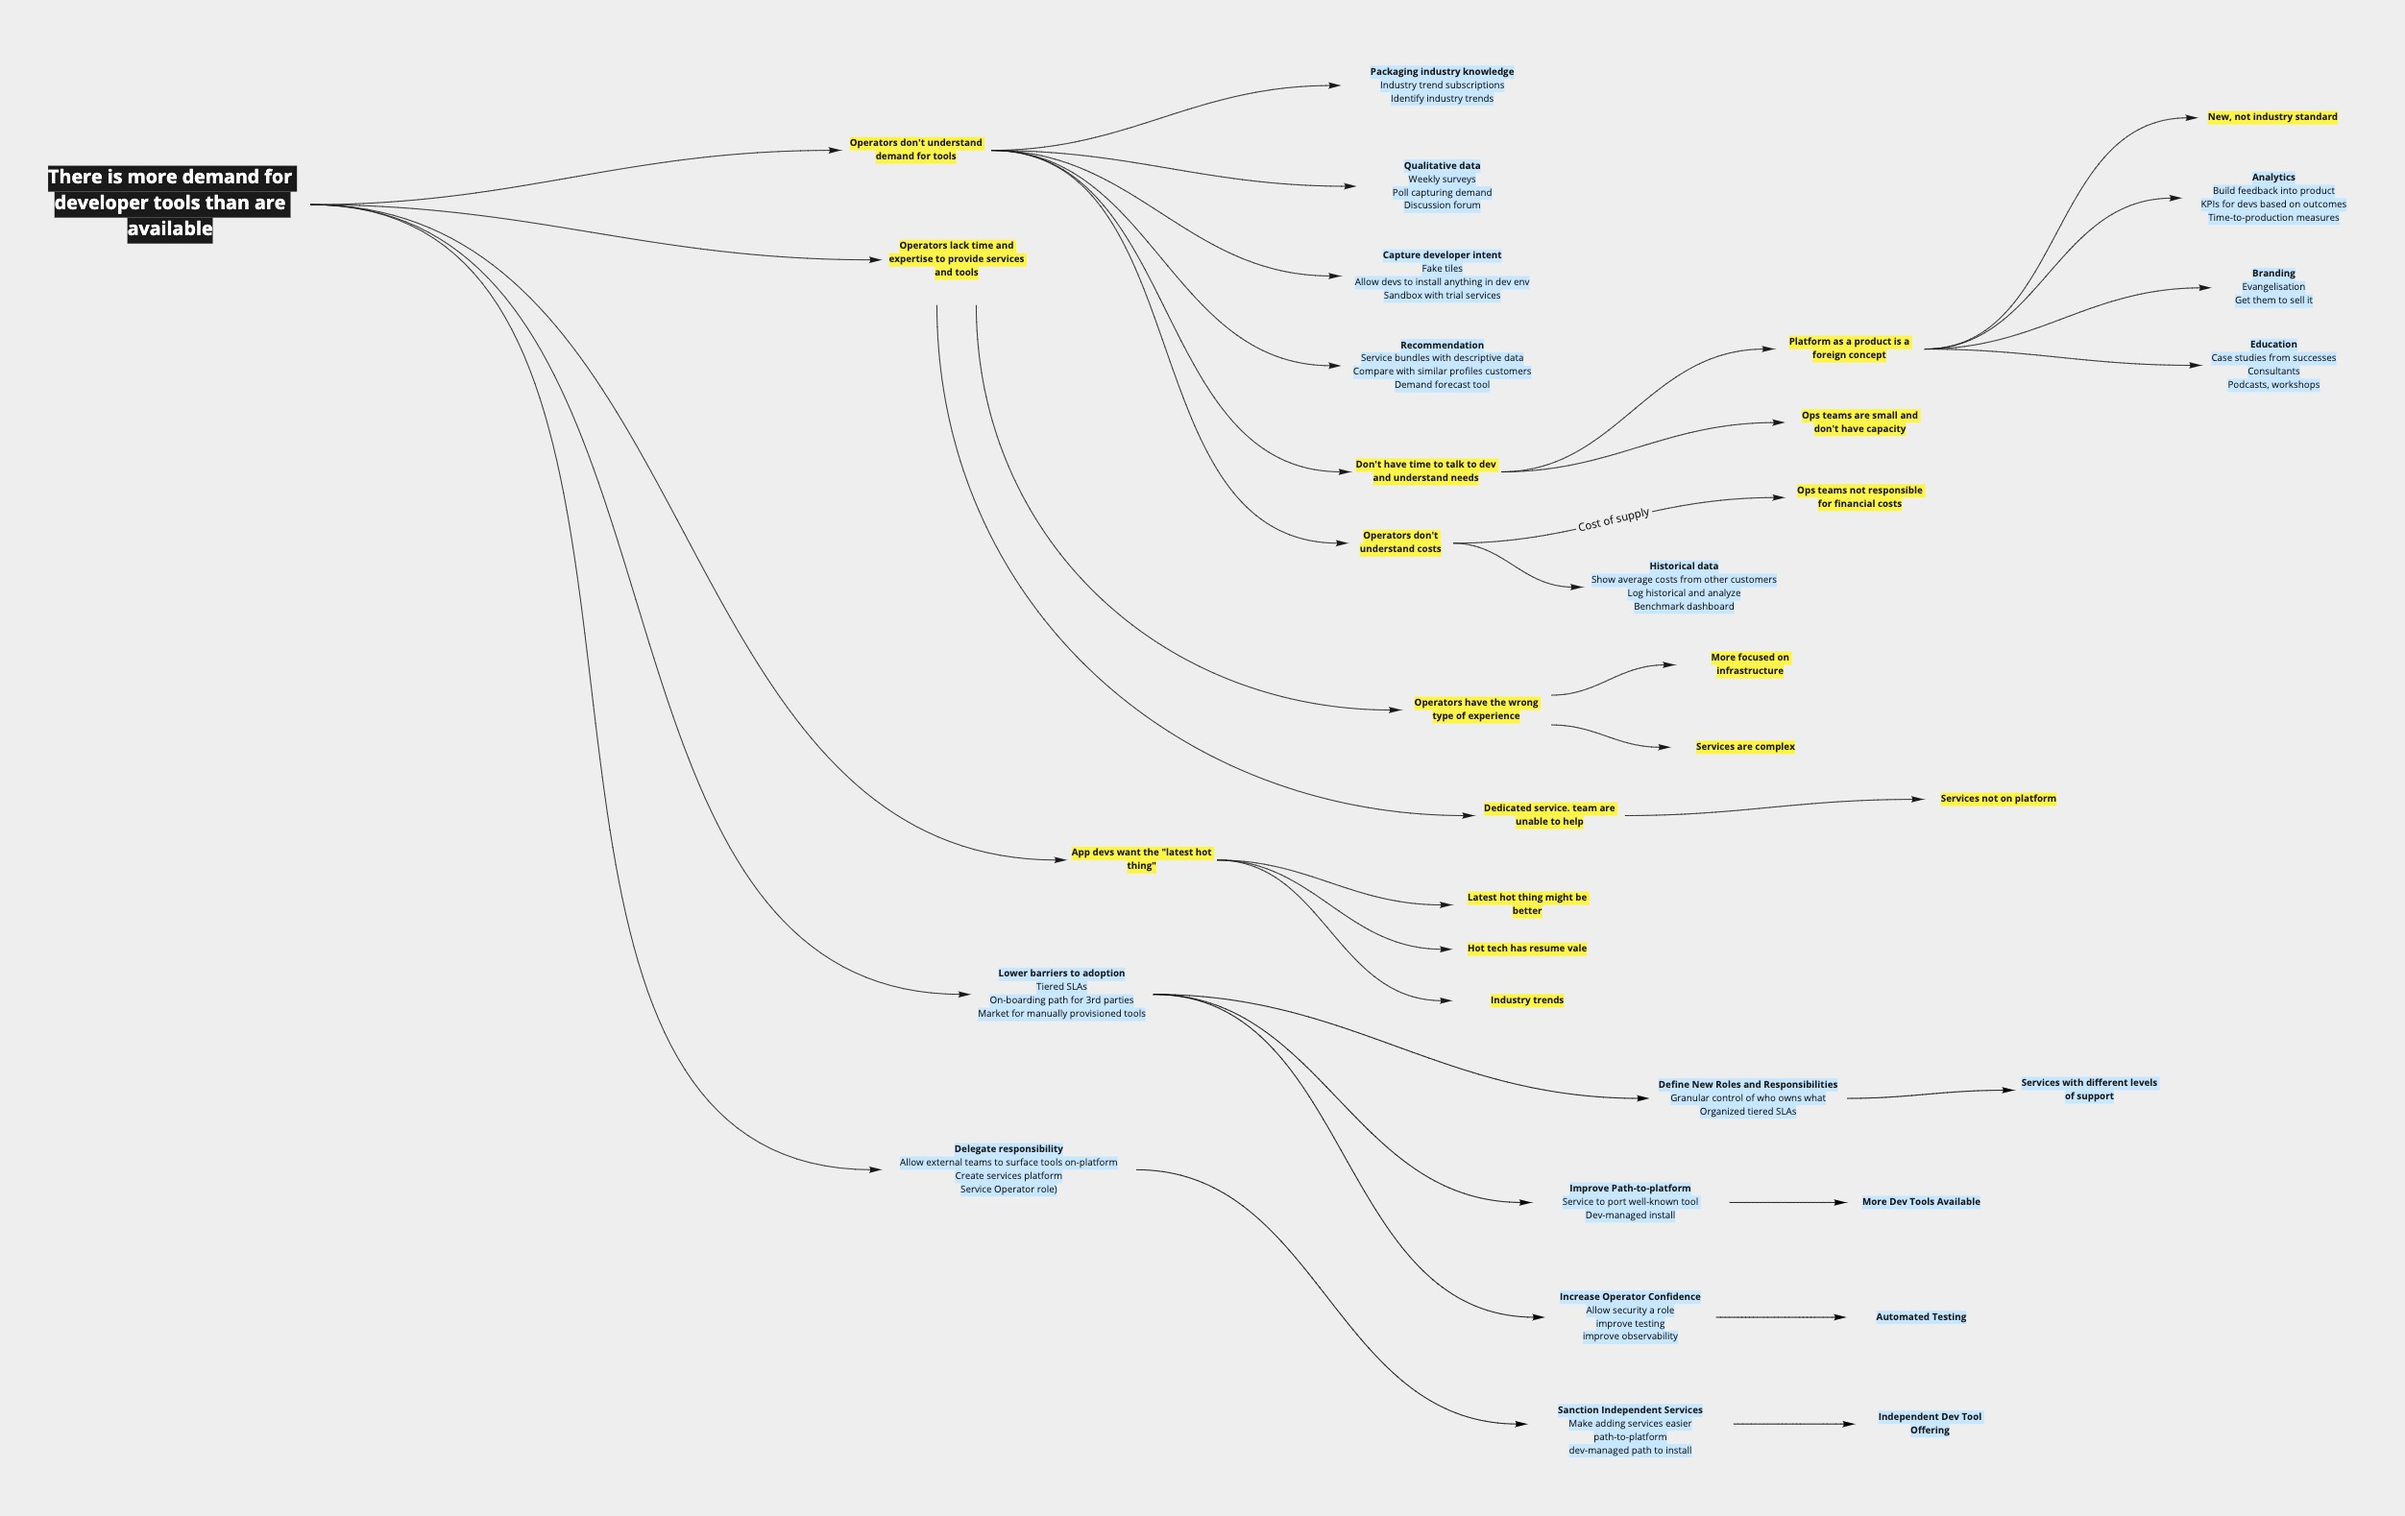
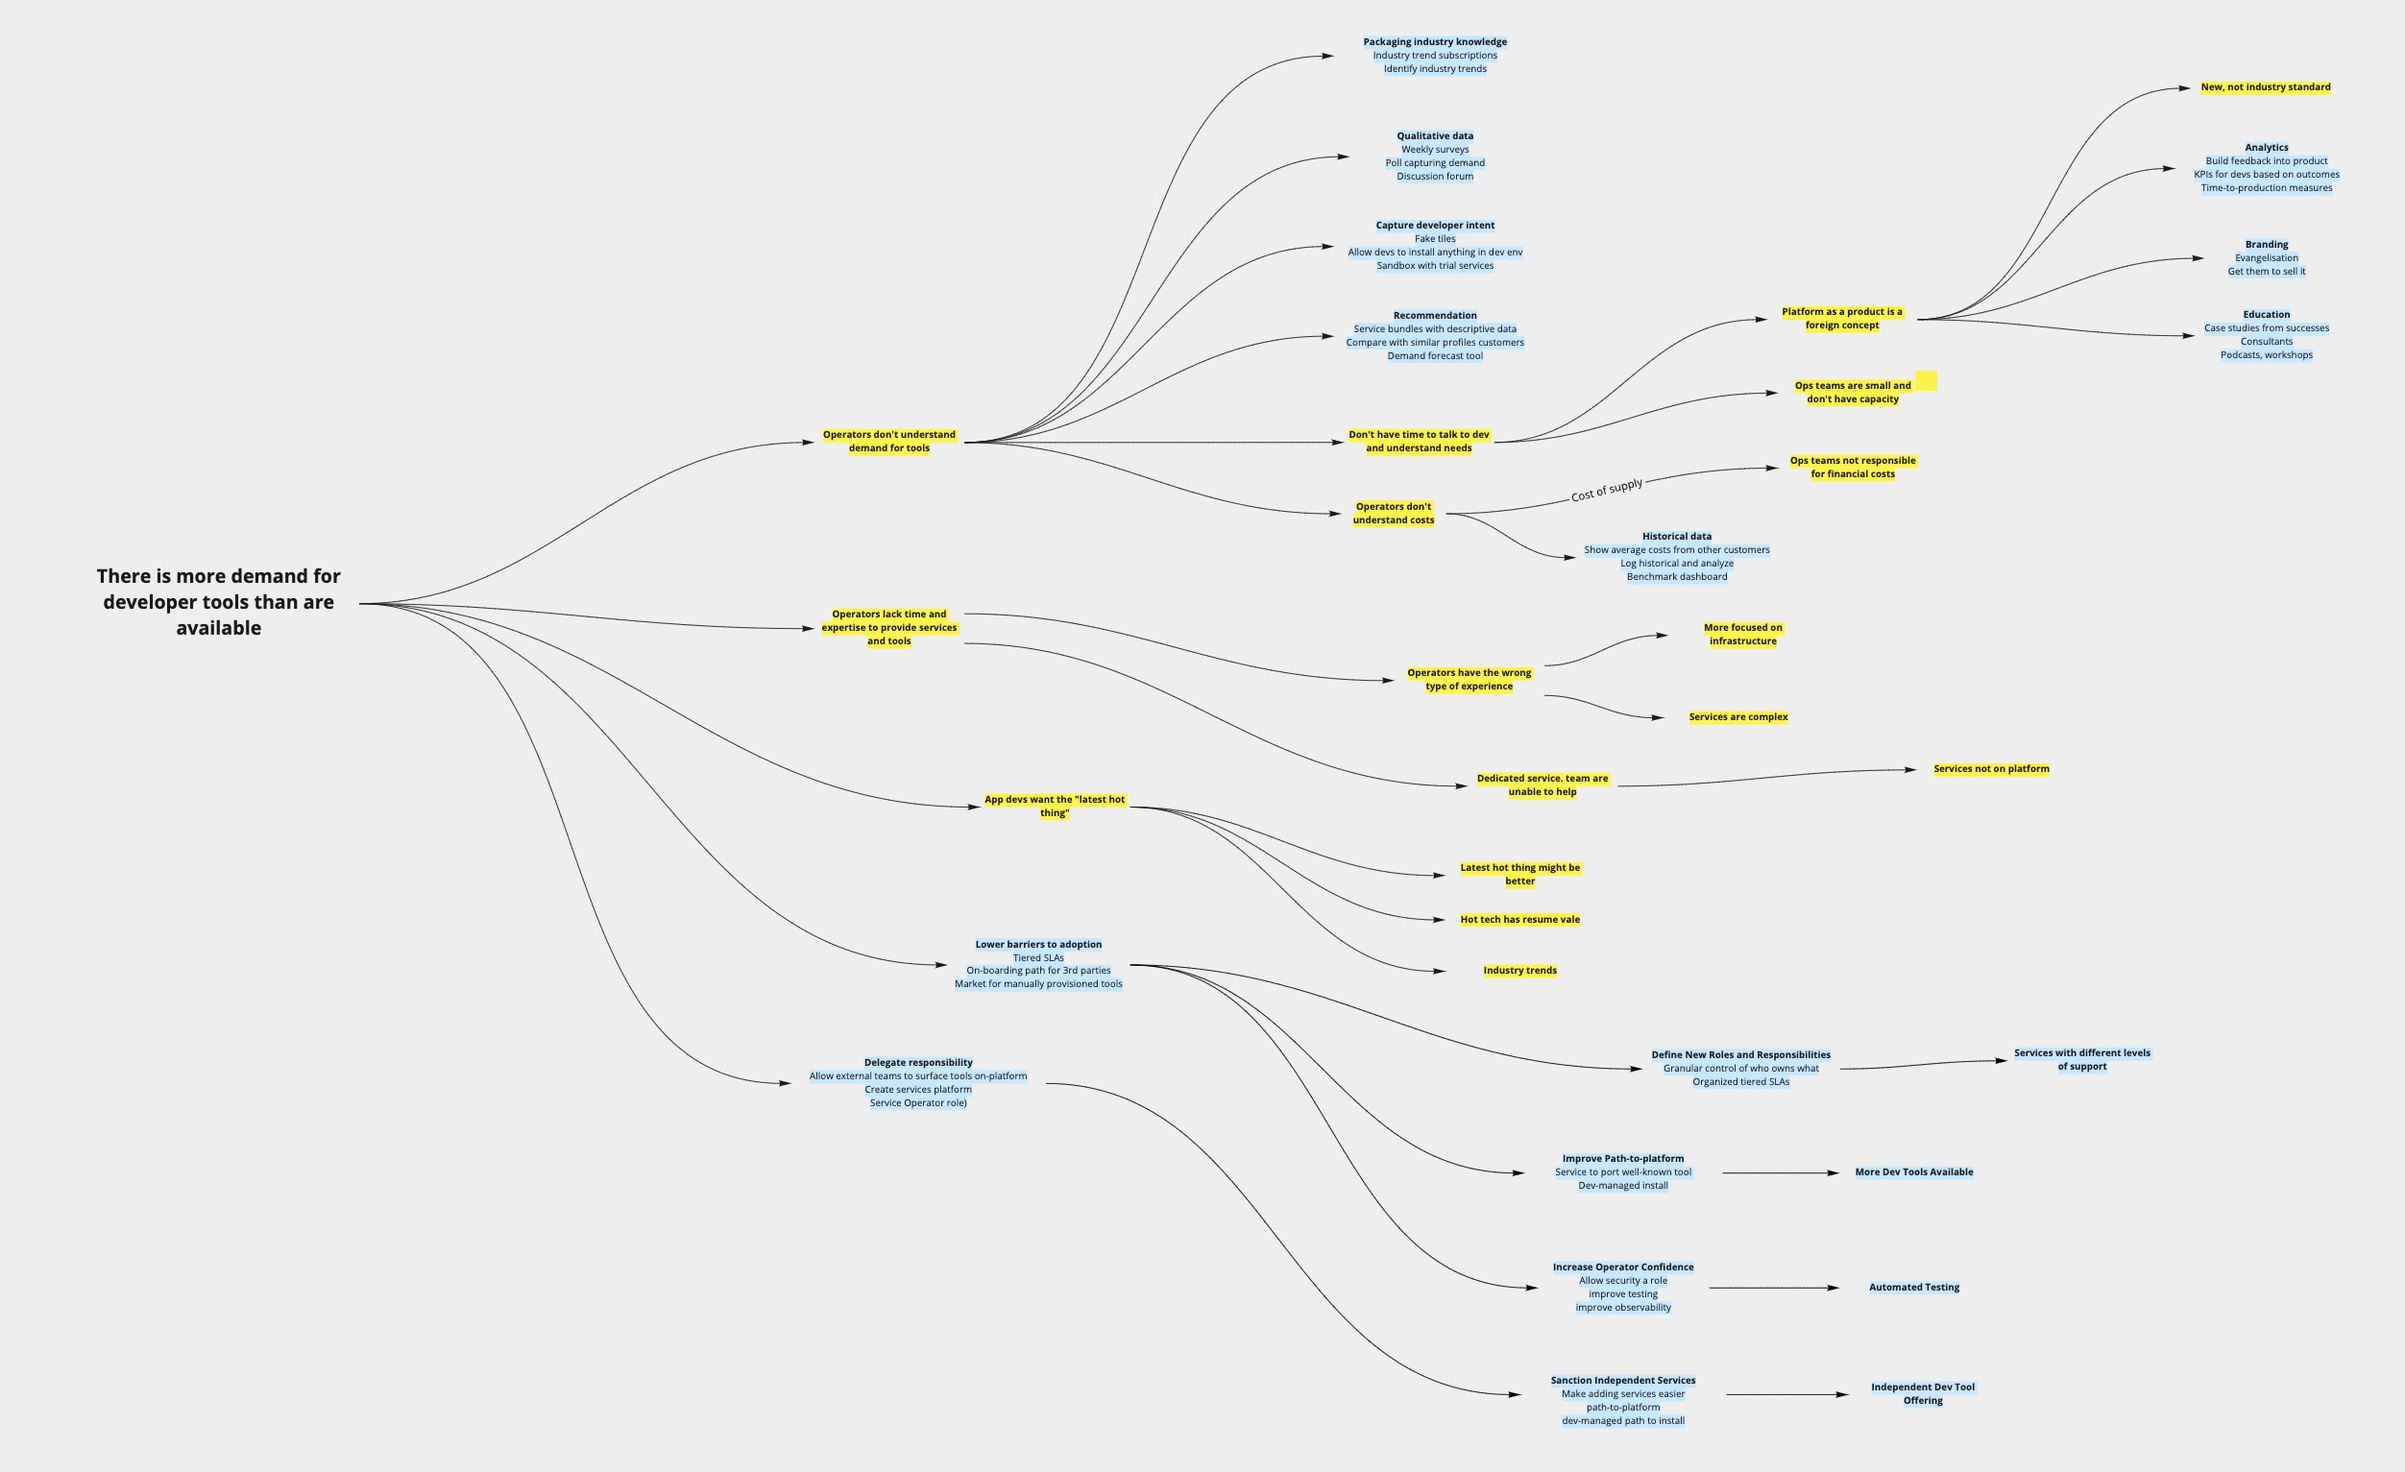
Change

diff --git a/console.html b/console.html
@@ -748,7 +748,9 @@
     <div class="row gx-3">
       <div class="col-md">
         <img src="images/console-22-01.png" class="img-fluid center-block d-block mx-auto" alt="image"> 
-        <div class="caption pt-3">Our affinity map grouped findings into themes, such as “product-market fit” and “learning process”.</div>
+        <div class="caption pt-3">
+        	Our causality map starts with a customer problem at the left (there is a lot more demand for developer toos than supply). The yellow nodes are root causes and the blue nodes are possible solutions.
+        </div>
       </div>
       
     </div>
